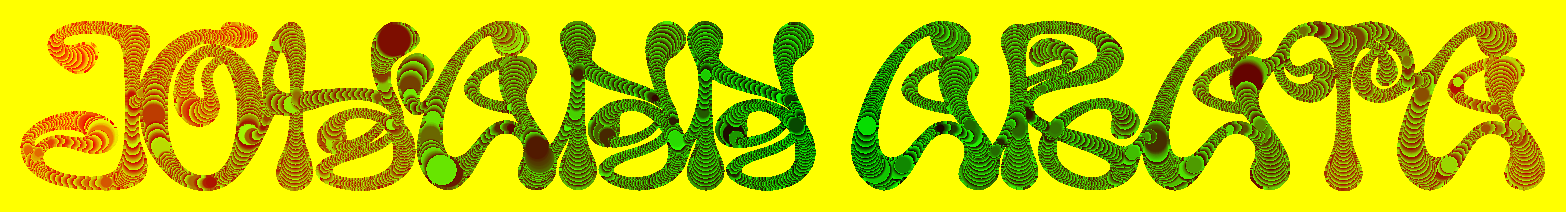
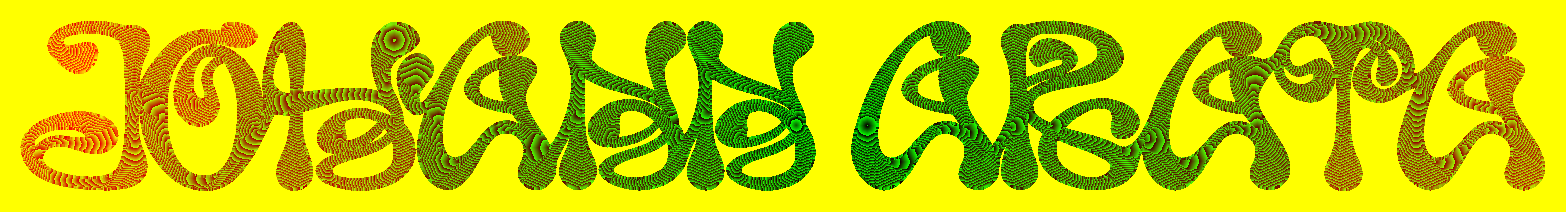
Nom JOHANN ARATA : tracé sans sauts (pente minimale, lissage, boule posée jusqu'à l'encre) ; battement sans à-coups ni recul (vague fixée à son départ, recalages d'horloge ignorés) ni boule qui surgit pendant le tracé

diff --git a/src/name-trace-data.js b/src/name-trace-data.js
@@ -1,2 +1,2 @@
 // généré par brand/tools/name-trace.mjs : apparition tracée de JOHANN ARATA (carte public/media/name-along.png)
-export const NAME_TRACE = {"map":{"w":1566,"h":212,"m":40,"k":0.5},"amax":2924.5,"dmax":34.4,"balls":[{"from":[1626,172,5],"to":[1552,210,14.4],"t":[0,83.2],"arata":false},{"from":[1626,172,6.3],"to":[1694,211,18],"t":[0,78.4],"arata":true},{"from":[790,103,29.2],"to":[748,40,31.8],"t":[1352.9,1428.6],"arata":false}],"paths":{"johann":[[1626,172],[1552,210],[1553,198],[1554,188],[1545,179],[1536,171],[1526,164],[1515,159],[1504,154],[1493,150],[1482,147],[1471,144],[1460,141],[1449,138],[1438,135],[1427,131],[1416,127],[1405,123],[1395,118],[1385,112],[1379,116],[1378,128],[1378,140],[1378,152],[1378,164],[1378,176],[1376,188],[1367,197],[1358,206],[1349,215],[1340,224],[1331,232],[1323,229],[1318,219],[1313,209],[1309,198],[1300,189],[1291,180],[1282,171],[1272,165],[1262,159],[1251,155],[1240,150],[1229,147],[1218,144],[1207,141],[1196,138],[1185,135],[1174,132],[1163,128],[1152,123],[1142,118],[1132,113],[1124,112],[1123,124],[1123,136],[1123,148],[1123,160],[1123,172],[1123,184],[1117,194],[1108,203],[1102,213],[1093,222],[1084,231],[1075,240],[1066,249],[1056,254],[1044,254],[1032,254],[1020,254],[1011,245],[1002,236],[993,228],[983,223],[971,221],[959,221],[947,221],[936,226],[927,235],[918,244],[909,253],[900,262],[891,270],[881,276],[870,279],[858,277],[850,268],[844,258],[841,247],[839,235],[839,223],[839,211],[839,199],[835,188],[826,179],[817,170],[805,170],[794,165],[793,153],[793,141],[793,129],[793,117],[792,105],[748,40],[748,52],[748,64],[748,76],[742,86],[737,96],[735,108],[735,120],[735,132],[730,143],[720,150],[708,150],[696,150],[684,150],[672,150],[660,150],[648,150],[636,150],[624,150],[612,150],[600,150],[588,150],[576,150],[564,150],[552,150],[540,152],[531,161],[522,170],[513,179],[504,188],[498,198],[493,209],[486,219],[477,228],[468,237],[459,246],[450,255],[441,264],[432,273],[423,282],[414,291],[405,300],[396,308],[386,313],[374,315],[362,316],[350,316],[339,312],[330,303],[321,294],[313,284],[307,274],[302,263],[298,252],[295,241],[293,229],[291,217],[289,205],[289,193],[283,183],[274,174],[265,165],[256,156],[247,149],[243,160],[239,171],[236,182],[233,193],[232,205],[232,217],[232,229],[232,241],[232,253],[231,265],[222,274],[213,283],[204,292],[195,301],[185,309],[174,313],[163,316],[151,318],[139,319],[127,319],[115,319],[103,319],[91,319],[79,319],[69,312],[60,303],[51,294],[43,284],[41,272],[46,261],[55,253],[66,249],[78,247],[90,247],[102,247],[114,247],[126,247],[138,247],[150,247],[162,247],[171,239],[180,230],[189,221],[190,220]],"arata":[[1626,172],[1694,211],[1694,223],[1696,235],[1705,244],[1714,253],[1717,265],[1726,274],[1736,279],[1748,280],[1760,280],[1772,280],[1782,275],[1791,266],[1800,257],[1809,248],[1818,239],[1827,230],[1837,225],[1848,222],[1860,222],[1872,222],[1884,222],[1896,222],[1908,222],[1917,231],[1926,240],[1935,249],[1944,257],[1952,248],[1961,239],[1970,230],[1979,221],[1989,214],[1998,205],[2007,196],[2018,193],[2030,193],[2040,200],[2050,205],[2060,210],[2072,210],[2082,218],[2093,221],[2104,224],[2115,227],[2126,230],[2137,233],[2148,236],[2159,240],[2170,243],[2181,248],[2191,253],[2201,258],[2213,258],[2225,258],[2236,254],[2245,245],[2256,241],[2268,241],[2279,245],[2288,254],[2297,263],[2306,272],[2316,279],[2328,280],[2340,280],[2352,280],[2363,275],[2372,266],[2381,257],[2390,248],[2399,239],[2408,231],[2418,225],[2429,222],[2441,222],[2453,222],[2465,221],[2473,215],[2473,203],[2473,191],[2473,179],[2472,167],[2471,155],[2471,143],[2471,131],[2471,119],[2478,109],[2487,100],[2496,91],[2505,82],[2514,73],[2523,64],[2532,55],[2541,46],[2550,38],[2560,31],[2571,27],[2583,26],[2595,26],[2607,26],[2619,26],[2631,26],[2643,26],[2655,26],[2667,26],[2679,26],[2691,26],[2703,26],[2715,26],[2725,32],[2734,41],[2743,50],[2752,59],[2760,69],[2765,79],[2768,90],[2769,102],[2776,112],[2785,121],[2794,130],[2796,142],[2796,154],[2796,166],[2796,178],[2796,190],[2796,202],[2796,214],[2796,226],[2796,238],[2796,250],[2804,260],[2813,269],[2822,277],[2833,280],[2845,280],[2857,280],[2869,279],[2878,270],[2887,261],[2896,252],[2905,243],[2914,234],[2924,227],[2935,223],[2947,222],[2959,222],[2971,222],[2983,219],[2981,207],[2972,198],[2963,189],[2953,183],[2941,181],[2929,179],[2917,176],[2907,171],[2898,162],[2889,153],[2882,143],[2881,131],[2881,119],[2883,107],[2892,98]]}}
+export const NAME_TRACE = {"map":{"w":1566,"h":212,"m":40,"k":0.5},"amax":2931.4,"dmax":34.4,"balls":[{"from":[1626,172,5],"to":[1552,210,14.4],"t":[0,83.2],"arata":false},{"from":[1626,172,6.3],"to":[1694,211,18],"t":[0,78.4],"arata":true},{"from":[790,103,29.2],"to":[748,40,31.8],"t":[1352.9,1428.6],"arata":false}],"paths":{"johann":[[1626,172],[1552,210],[1553,198],[1554,188],[1545,179],[1536,171],[1526,164],[1515,159],[1504,154],[1493,150],[1482,147],[1471,144],[1460,141],[1449,138],[1438,135],[1427,131],[1416,127],[1405,123],[1395,118],[1385,112],[1379,116],[1378,128],[1378,140],[1378,152],[1378,164],[1378,176],[1376,188],[1367,197],[1358,206],[1349,215],[1340,224],[1331,232],[1323,229],[1318,219],[1313,209],[1309,198],[1300,189],[1291,180],[1282,171],[1272,165],[1262,159],[1251,155],[1240,150],[1229,147],[1218,144],[1207,141],[1196,138],[1185,135],[1174,132],[1163,128],[1152,123],[1142,118],[1132,113],[1124,112],[1123,124],[1123,136],[1123,148],[1123,160],[1123,172],[1123,184],[1117,194],[1108,203],[1102,213],[1093,222],[1084,231],[1075,240],[1066,249],[1056,254],[1044,254],[1032,254],[1020,254],[1011,245],[1002,236],[993,228],[983,223],[971,221],[959,221],[947,221],[936,226],[927,235],[918,244],[909,253],[900,262],[891,270],[881,276],[870,279],[858,277],[850,268],[844,258],[841,247],[839,235],[839,223],[839,211],[839,199],[835,188],[826,179],[817,170],[805,170],[794,165],[793,153],[793,141],[793,129],[793,117],[792,105],[748,40],[748,52],[748,64],[748,76],[742,86],[737,96],[735,108],[735,120],[735,132],[730,143],[720,150],[708,150],[696,150],[684,150],[672,150],[660,150],[648,150],[636,150],[624,150],[612,150],[600,150],[588,150],[576,150],[564,150],[552,150],[540,152],[531,161],[522,170],[513,179],[504,188],[498,198],[493,209],[486,219],[477,228],[468,237],[459,246],[450,255],[441,264],[432,273],[423,282],[414,291],[405,300],[396,308],[386,313],[374,315],[362,316],[350,316],[339,312],[330,303],[321,294],[313,284],[307,274],[302,263],[298,252],[295,241],[293,229],[291,217],[289,205],[289,193],[283,183],[274,174],[265,165],[256,156],[247,149],[243,160],[239,171],[236,182],[233,193],[232,205],[232,217],[232,229],[232,241],[232,253],[231,265],[222,274],[213,283],[204,292],[195,301],[185,309],[174,313],[163,316],[151,318],[139,319],[127,319],[115,319],[103,319],[91,319],[79,319],[69,312],[60,303],[51,294],[43,284],[41,272],[46,261],[55,253],[66,249],[78,247],[90,247],[102,247],[114,247],[126,247],[138,247],[150,247],[162,247],[171,239],[180,230],[189,221],[190,220]],"arata":[[1626,172],[1694,211],[1694,223],[1696,235],[1705,244],[1714,253],[1717,265],[1726,274],[1736,279],[1748,280],[1760,280],[1772,280],[1782,275],[1791,266],[1800,257],[1809,248],[1818,239],[1827,230],[1837,225],[1848,222],[1860,222],[1872,222],[1884,222],[1896,222],[1908,222],[1917,231],[1926,240],[1935,249],[1944,257],[1952,248],[1961,239],[1970,230],[1979,221],[1989,214],[1998,205],[2007,196],[2018,193],[2030,193],[2040,200],[2050,205],[2060,210],[2072,210],[2082,218],[2093,221],[2104,224],[2115,227],[2126,230],[2137,233],[2148,236],[2159,240],[2170,243],[2181,248],[2191,253],[2201,258],[2213,258],[2225,258],[2236,254],[2245,245],[2256,241],[2268,241],[2279,245],[2288,254],[2297,263],[2306,272],[2316,279],[2328,280],[2340,280],[2352,280],[2363,275],[2372,266],[2381,257],[2390,248],[2399,239],[2408,231],[2418,225],[2429,222],[2441,222],[2453,222],[2465,221],[2473,215],[2473,203],[2473,191],[2473,179],[2472,167],[2471,155],[2471,143],[2471,131],[2471,119],[2478,109],[2487,100],[2496,91],[2505,82],[2514,73],[2523,64],[2532,55],[2541,46],[2550,38],[2560,31],[2571,27],[2583,26],[2595,26],[2607,26],[2619,26],[2631,26],[2643,26],[2655,26],[2667,26],[2679,26],[2691,26],[2703,26],[2715,26],[2725,32],[2734,41],[2743,50],[2752,59],[2760,69],[2765,79],[2768,90],[2769,102],[2776,112],[2785,121],[2794,130],[2796,142],[2796,154],[2796,166],[2796,178],[2796,190],[2796,202],[2796,214],[2796,226],[2796,238],[2796,250],[2804,260],[2813,269],[2822,277],[2833,280],[2845,280],[2857,280],[2869,279],[2878,270],[2887,261],[2896,252],[2905,243],[2914,234],[2924,227],[2935,223],[2947,222],[2959,222],[2971,222],[2983,219],[2981,207],[2972,198],[2963,189],[2953,183],[2941,181],[2929,179],[2917,176],[2907,171],[2898,162],[2889,153],[2882,143],[2881,131],[2881,119],[2883,107],[2892,98]]}}

diff --git a/src/name-bulge.js b/src/name-bulge.js
@@ -105,7 +105,7 @@ export function initNameBulge(svgs, mapUrl) {
       ? [along(NAME_TRACE.paths.johann), along(NAME_TRACE.paths.arata.map(([x, y], i) => st && i > 0 ? [x + st[0], y + st[1]] : [x, y]))]
       : null
     return {
-      el, balls, heart, st,
+      el, balls, heart, st, waves: [{ s0: -1e9, dur: [1, 1] }, { s0: -1e9, dur: [1, 1] }],
       // lettres du mot (géométrie seule, pour savoir si le curseur en touche une) et leur décalage (nom empilé : ARATA
       // est dans un groupe déplacé sous JOHANN)
       paths: [...el.querySelectorAll('[id^="bal-l-"] path')].map((pa) => {
@@ -115,6 +115,7 @@ export function initNameBulge(svgs, mapUrl) {
       pt: el.createSVGPoint(),
     }
   }).filter((it) => it.balls.length)
+  if (import.meta.env.DEV) window.__bulge = items   // audit (scratch) : avancée des boules du battement image par image
   if (!items.length) return
   const onInk = (it, x, y) => it.paths.some(([pa, dx, dy]) => { it.pt.x = x - dx; it.pt.y = y - dy; return pa.isPointInFill(it.pt) })
   let px = -1e9, py = -1e9, raf = 0, last = 0
@@ -173,17 +174,32 @@ export function initNameBulge(svgs, mapUrl) {
         if (m >= 0) ht = [rhythm.n1, rhythm.n2].map((n) => m >= n ? m - n : -1)
         busy = true
       }
-      if (!near && dur && ht.some((t) => t >= 0 && t < heartDur)) {
+      // vague en cours : son départ et sa durée sont ceux fixés quand elle est partie. Les horloges du S et du nom se
+      // recalent parfois de quelques dizaines de ms : la même vague continue (seul un écart d'au moins 40 % de sa course
+      // en fait une nouvelle), sinon la boule repartait en arrière
+      const same = (t, w) => Math.abs(it.waves[w].s0 - (now - t)) < 0.4 * Math.max(...it.waves[w].dur)
+      const runs = (t, w) => t >= 0 && (same(t, w) ? now - it.waves[w].s0 < Math.max(...it.waves[w].dur) : t < heartDur)
+      if (!near && dur && ht.some(runs)) {
         // battement : chaque vague, deux boules du centre vers les deux bouts (départ et arrivée ralentis, comme celles
         // du S) ; leur ampleur monte au départ et retombe avant l'arrivée ; vague finie : ses boules s'éteignent
         const gate = whole ? null : gateOf(it)
         ht.forEach((t, w) => {
+          // durée fixée au départ de la vague : la vitesse du S (sa taille) change pendant le défilement, et la recalculer
+          // à chaque image faisait avancer la boule par à-coups, voire reculer
+          const wv = it.waves[w]
+          if (t >= 0 && !same(t, w)) { wv.s0 = now - t; wv.dur = dur.slice() }
+          if (t >= 0) t = now - wv.s0
           for (let i = 0; i < 2; i++) {
-            const b = it.balls[2 * w + i], k = t < 0 ? -1 : t / dur[i]
+            const b = it.balls[2 * w + i], k = t < 0 ? -1 : t / wv.dur[i]
             const f = 0.5 - 0.5 * Math.cos(Math.PI * Math.min(1, Math.max(0, k)))
             let amp = k < 0 || k >= 1 ? 0 : ss(k / 0.12) * (1 - ss((k - 0.8) / 0.18))
-            if (gate) amp *= ss((front - gate[i][Math.round(f * (G - 1))]) / 250)   // tracé en cours : seulement là où tout est tracé
-            ;[b.x, b.y] = it.heart[i](f); b.a = amp; place(it, b)
+            // tracé en cours : seulement là où tout est tracé. Ce facteur suit sa cible en douceur : la limite « déjà tracé »
+            // fait des bonds le long du chemin, et un défilement rapide avance le front d'un coup (la boule surgissait ou
+            // s'éteignait en une image) ; au départ d'une vague, il part directement de sa valeur
+            const gt = gate ? ss((front - gate[i][Math.round(f * (G - 1))]) / 250) : 1
+            b.g = b.g == null || t < 40 ? gt : follow(b.g, gt, 0.09, dt)
+            amp *= b.g
+            ;[b.x, b.y] = it.heart[i](f); b.a = amp; b.prog = k; place(it, b)
           }
         })
         busy = true

diff --git a/src/main.js b/src/main.js
@@ -523,6 +523,7 @@ const wordsSvg = [...document.querySelectorAll('.hero .studio__word')]
 // tracé ; avant et après, le SVG (rien, ou le nom entier). Sans WebGL (ou carte pas encore prête) : simple fondu du SVG
 const nameMap = (() => { const s = document.querySelector('.brand__mark')?.src; if (!s) return ''; const u = new URL('name-along.png', s); u.search = new URL(s).search; return u.href })()
 const sweeps = wordsSvg.filter((w) => w.classList.contains('logotype--balayage')).map((el) => ({ el, last: -1, tr: reduced || !nameMap ? null : nameTrace(el, nameMap) }))
+if (import.meta.env.DEV) window.__sweeps = sweeps   // audit (scratch) : piloter le tracé image par image
 initNameBulge([...sweeps.map((sw) => sw.el), ...document.querySelectorAll('.foot__logo.logotype--balayage, .logotype--renfle')], nameMap)   // renflement du nom au survol (name-bulge.js)
 // pied de page : le même tracé, joué dans le temps quand le nom arrive entier à l'écran ; effacé quand on remonte (le
 // nom repasse sous le bas de l'écran), rejoué au retour
@@ -548,6 +549,7 @@ initNameBulge([...sweeps.map((sw) => sw.el), ...document.querySelectorAll('.foot
     }
   } }
 function sweep(draw) {
+  if (import.meta.env.DEV && window.__freeze) return   // audit : tracé piloté à la main
   const a = Math.round((1 - draw) * 1000) / 1000
   for (const sw of sweeps) {
     const ready = !!sw.tr?.ready

diff --git a/src/name-trace.js b/src/name-trace.js
@@ -135,13 +135,16 @@ export function nameTrace(svg, mapUrl) {
     svg._front = front   // avancée du tracé (unités de la carte) : le battement ne passe que sur la partie tracée (name-bulge.js)
     gl.uniform1f(U.uFront, front)
     balls.forEach((b, i) => {
-      const k = (front - b.t[0]) / (b.t[1] - b.t[0]), on = k > 0 && k < 1
-      const e = on ? k : 0   // même vitesse que le front dans les lettres
+      // arrivée : la boule reste posée jusqu'à ce que l'encre l'ait recouverte (sinon une image sans rien, puis un bloc)
+      const k = (front - b.t[0]) / (b.t[1] - b.t[0]), on = k > 0 && front < b.t[1] + 2 * b.to[2]
+      const e = on ? Math.min(1, k) : 0   // même vitesse que le front dans les lettres
       gl.uniform4f(U[`uB${i}`], b.from[0] + (b.to[0] - b.from[0]) * e, b.from[1] + (b.to[1] - b.from[1]) * e, b.from[2] + (b.to[2] - b.from[2]) * e, on ? 1 : 0)
     })
     gl.clearColor(0, 0, 0, 0); gl.clear(gl.COLOR_BUFFER_BIT)
     gl.drawArrays(gl.TRIANGLE_STRIP, 0, 4)
   }
+  // audit (dev) : pixels du canvas, relus juste après draw
+  if (import.meta.env.DEV) api._read = () => { const d = new Uint8Array(cv.width * cv.height * 4); gl.readPixels(0, 0, cv.width, cv.height, gl.RGBA, gl.UNSIGNED_BYTE, d); return { d, w: cv.width, h: cv.height } }
   /** Tracé en cours : le canvas à la place du SVG. */
   api.show = (on) => {
     if (on === api.shown) return
